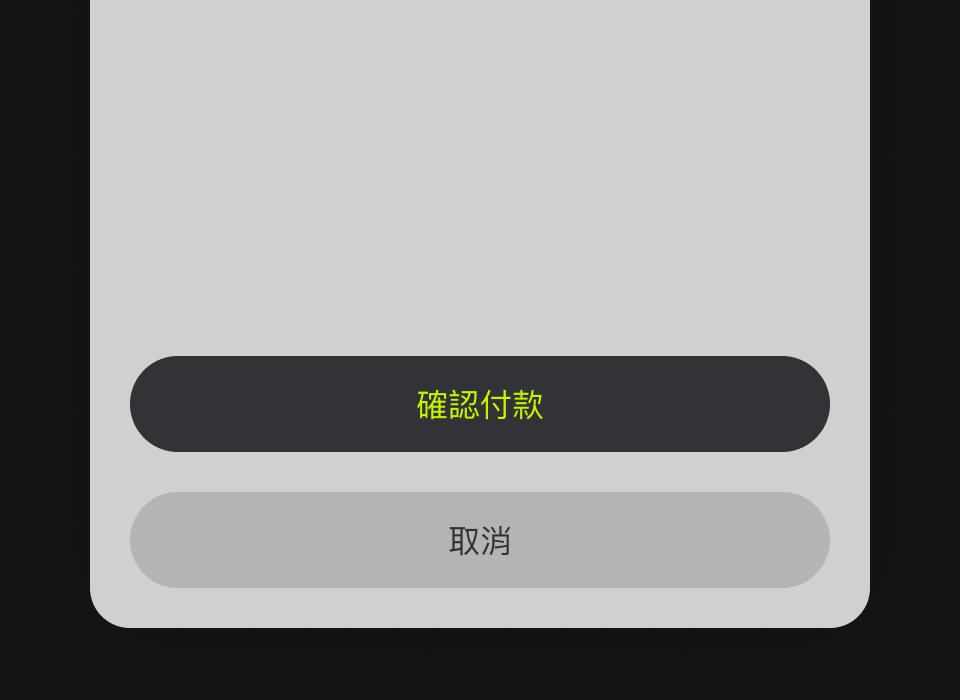
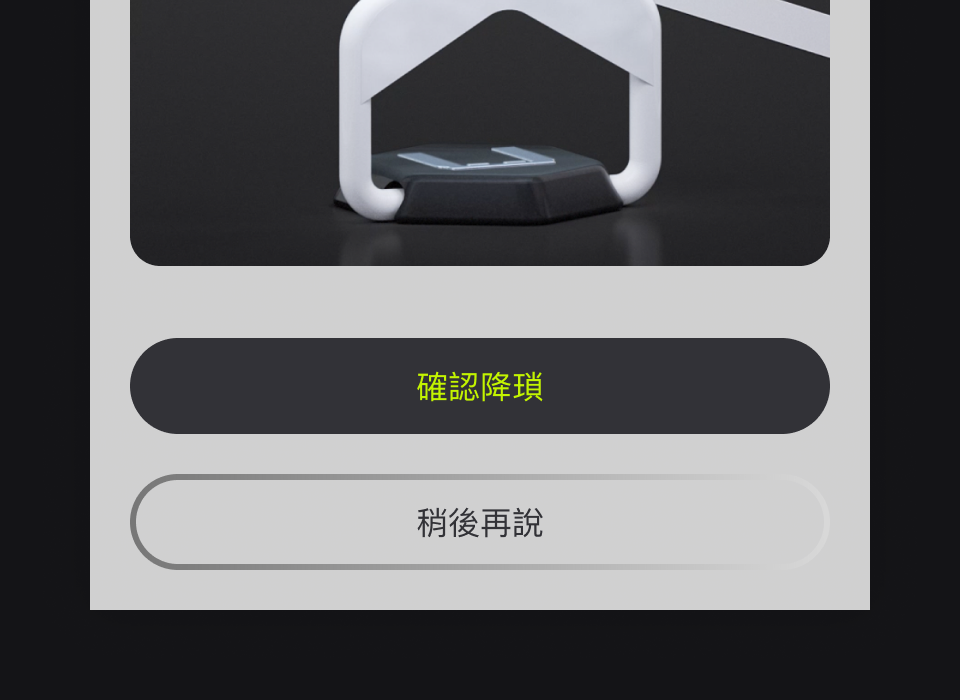
feat!: refresh button artwork, add edge cases, truncate long labels
Re-exported all 12 groups from section 3726:8888. All ten existing groups had
changed, and two are new: button-edge-case1 and button-edge-case2.

The new drawings document two situations, and the second one exposed a gap in
the widget. The label Text had no Flexible wrapper, no maxLines and no
overflow, so a long label overflowed or stretched the button — while the
drawing specifies a single line ending in an ellipsis. Fixed with
Flexible + maxLines: 1 + TextOverflow.ellipsis; short labels are unaffected.
A test places a long label in a 200px box and asserts no overflow exception
plus the two Text settings.

The page gains an Edge cases section after Accessibility (page-specific
sections belong there):

- mixed enabled and disabled rows: the whole row dims, not just the button,
  because readers judge "this row is unavailable" rather than "this button is
  broken"
- long labels truncate — with a note that needing truncation means the copy
  should be rewritten, not that truncation solved it

Claude-Session: https://claude.ai/code/session_01C3QD42BFcg3wh6BVLRqAy6

diff --git a/website/src/pages/components/ButtonPage.tsx b/website/src/pages/components/ButtonPage.tsx
@@ -461,6 +461,39 @@ export default function ButtonPage() {
               <li>tertiary 的淺灰底與頁面背景相近，放在深淺不一的背景上時需自行確認邊界是否可辨。</li>
             </ul>
           </section>
+
+          {/* ── 11. Edge cases（本頁專屬，接在必要區塊之後）── */}
+          <section className="section">
+            <SectionTitle>Edge cases</SectionTitle>
+            <p className="text-md text-muted" style={{ margin: '0 0 24px' }}>
+              實際畫面上比較容易踩到的兩種情況，設計稿已經定義了處理方式。
+            </p>
+
+            <h3 className="heading-md" style={{ margin: '0 0 12px' }}>
+              同一份列表裡混著可按與不可按
+            </h3>
+            <AnatomyImage
+              image="button-edge-case1"
+              alt="停車位列表中，已被預約的那一列整列淡化且按鈕為 disabled，可預約的那一列維持深色可按"
+            />
+            <p className="text-md text-muted" style={{ margin: '0 0 32px' }}>
+              不可選的項目，整列連同按鈕一起淡化，不是只把按鈕改成 disabled。
+              使用者掃過去時判斷的是「這一整列不能選」，而不是「這顆按鈕壞了」。
+            </p>
+
+            <h3 className="heading-md" style={{ margin: '0 0 12px' }}>
+              標籤過長
+            </h3>
+            <AnatomyImage
+              image="button-edge-case2"
+              alt="標籤文字過長的按鈕，文字在單行內截斷並以刪節號結尾"
+            />
+            <p className="text-md text-muted" style={{ margin: 0 }}>
+              過長的標籤<strong>單行截斷並加刪節號</strong>，不換行、也不把按鈕撐高。
+              元件已經內建這個行為，呼叫端不需要自己截字。不過截掉的字讀者就看不到了，
+              按鈕文字本來就該短——會被截斷代表文案需要重寫，而不是靠截斷解決。
+            </p>
+          </section>
         </div>
       )}
 

diff --git a/test/component_token_test.dart b/test/component_token_test.dart
@@ -203,6 +203,26 @@ void main() {
     });
   });
 
+  // 過長的標籤要單行截斷，不能撐破按鈕——見 Figma 的 button-edge-case2
+  group('USpaceButton 長標籤', () {
+    testWidgets('文字過長時單行截斷且不溢出', (tester) async {
+      await pump(
+        tester,
+        const SizedBox(
+          width: 200,
+          child: USpaceButton(label: '結束停車結束停車結束停車結束停車結束停車結束停車'),
+        ),
+      );
+      expect(tester.takeException(), isNull, reason: '長標籤不該造成 overflow');
+
+      final text = tester.widget<Text>(
+        find.descendant(of: find.byType(USpaceButton), matching: find.byType(Text)),
+      );
+      expect(text.maxLines, 1);
+      expect(text.overflow, TextOverflow.ellipsis);
+    });
+  });
+
   // ── Toggle ──────────────────────────────────────────────
   group('USpaceToggle', () {
     final layout = readJson('tokens/components/toggle.json')['layout'] as Map<String, dynamic>;

diff --git a/styles/button.dart b/styles/button.dart
@@ -151,9 +151,15 @@ class USpaceButton extends StatelessWidget {
                   _icon(leadingIcon!, content),
                   const SizedBox(width: USpaceSpacing.spacer8),
                 ],
-                Text(
-                  label,
-                  style: context.typography.displayM.copyWith(color: content),
+                // Flexible + ellipsis：文字過長時單行截斷，不要撐破按鈕或換行。
+                // 見 Figma 的 button-edge-case2（過長標籤）
+                Flexible(
+                  child: Text(
+                    label,
+                    maxLines: 1,
+                    overflow: TextOverflow.ellipsis,
+                    style: context.typography.displayM.copyWith(color: content),
+                  ),
                 ),
                 if (trailingIcon != null) ...[
                   const SizedBox(width: USpaceSpacing.spacer8),

diff --git a/website/src/tokens/version.ts b/website/src/tokens/version.ts
@@ -2,4 +2,4 @@
 // 來源：package.json 的 version
 // 重新產生：npm run gen:tokens（專案根目錄）
 
-export const version = '0.12.3';
+export const version = '0.13.0';

diff --git a/tracking/CHANGELOG.md b/tracking/CHANGELOG.md
@@ -11,6 +11,32 @@
 
 ---
 
+## v0.13.0 | 2026-08-24
+
+### button.dart | 過長標籤單行截斷
+狀態：PUBLISHED
+⚠ BREAKING CHANGE
+
+- 標籤原本沒有任何截斷處理：`Text` 沒包 `Flexible`，也沒設 `maxLines` 與
+  `overflow`，長文字會撐破按鈕或造成 overflow。設計稿的
+  `button-edge-case2` 明確定義了要單行截斷加刪節號。
+- 改為 `Flexible` + `maxLines: 1` + `TextOverflow.ellipsis`。既有的短標籤
+  外觀不變，長標籤從溢出改為截斷。
+- 新增測試：在 200px 寬的容器裡放長標籤，斷言不丟 overflow 例外，
+  且 `maxLines` 與 `overflow` 設定正確。
+
+### 文件站 | Button 說明圖全數更新，新增 Edge cases 區塊
+狀態：PUBLISHED
+
+- 從 Figma section 3726:8888（Button-MCPimages）重新匯出全部 12 組、24 張圖。
+  **既有 10 組全部有變動**，設計稿確實更新過。
+- 新增兩組 `button-edge-case1` / `button-edge-case2`，Button 頁隨之新增
+  Edge cases 區塊（接在 Accessibility 之後，屬本頁專屬區塊）：
+  - **同一份列表裡混著可按與不可按**：不可選的項目整列淡化，不是只把按鈕
+    改成 disabled。
+  - **標籤過長**：單行截斷加刪節號。文件同時說明，會被截斷代表文案要重寫，
+    不是靠截斷解決。
+
 ## v0.12.3 | 2026-08-17
 
 ### 文件站 | Action Area 補上 Variants 說明圖
